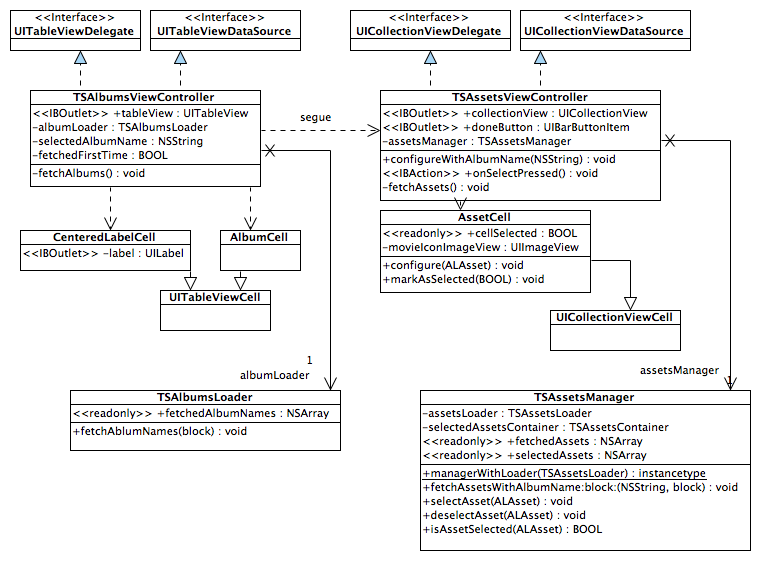
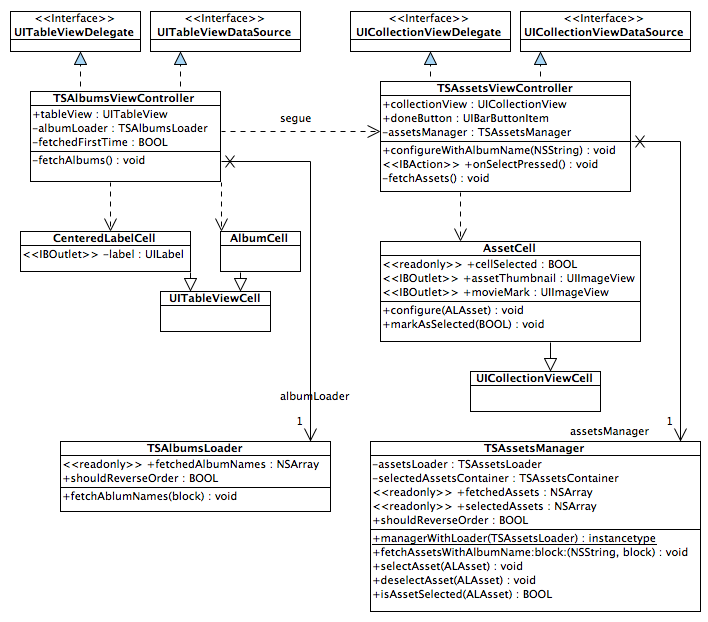
Updated diagrams

Changed region(s): [[0.0, 0.0, 0.9944, 0.9929], [0.0621, 0.6018, 0.4972, 0.8425]]

diff --git a/Classes/Controllers/Assets/TSAssetsViewController.h b/Classes/Controllers/Assets/TSAssetsViewController.h
@@ -11,8 +11,8 @@
 extern NSString *DidEndImportAssetsNotification;
 
 @interface TSAssetsViewController : UIViewController
-@property (nonatomic, readonly) UICollectionView *collectionView;
-@property (nonatomic, readonly) UIBarButtonItem *selectButton;
+@property (nonatomic) UICollectionView *collectionView;
+@property (nonatomic) UIBarButtonItem *selectButton;
 
 - (void)configureWithAlbumName:(NSString *)name;
 

diff --git a/Classes/Controllers/Assets/AssetCell.h b/Classes/Controllers/Assets/AssetCell.h
@@ -12,7 +12,7 @@
 
 @interface AssetCell : UICollectionViewCell
 @property (nonatomic, weak) IBOutlet UIImageView *assetThumbnail;
-@property (weak, nonatomic) IBOutlet UIImageView *movieMark;
+@property (nonatomic, weak) IBOutlet UIImageView *movieMark;
 
 @property (nonatomic, readonly, getter = isCellSelected) BOOL cellSelected;
 

diff --git a/Classes/Controllers/Albums/TSAlbumsViewController.h b/Classes/Controllers/Albums/TSAlbumsViewController.h
@@ -9,5 +9,5 @@
 #import <UIKit/UIKit.h>
 
 @interface TSAlbumsViewController : UIViewController
-@property (nonatomic, readonly) UITableView *tableView;
+@property (nonatomic) UITableView *tableView;
 @end
